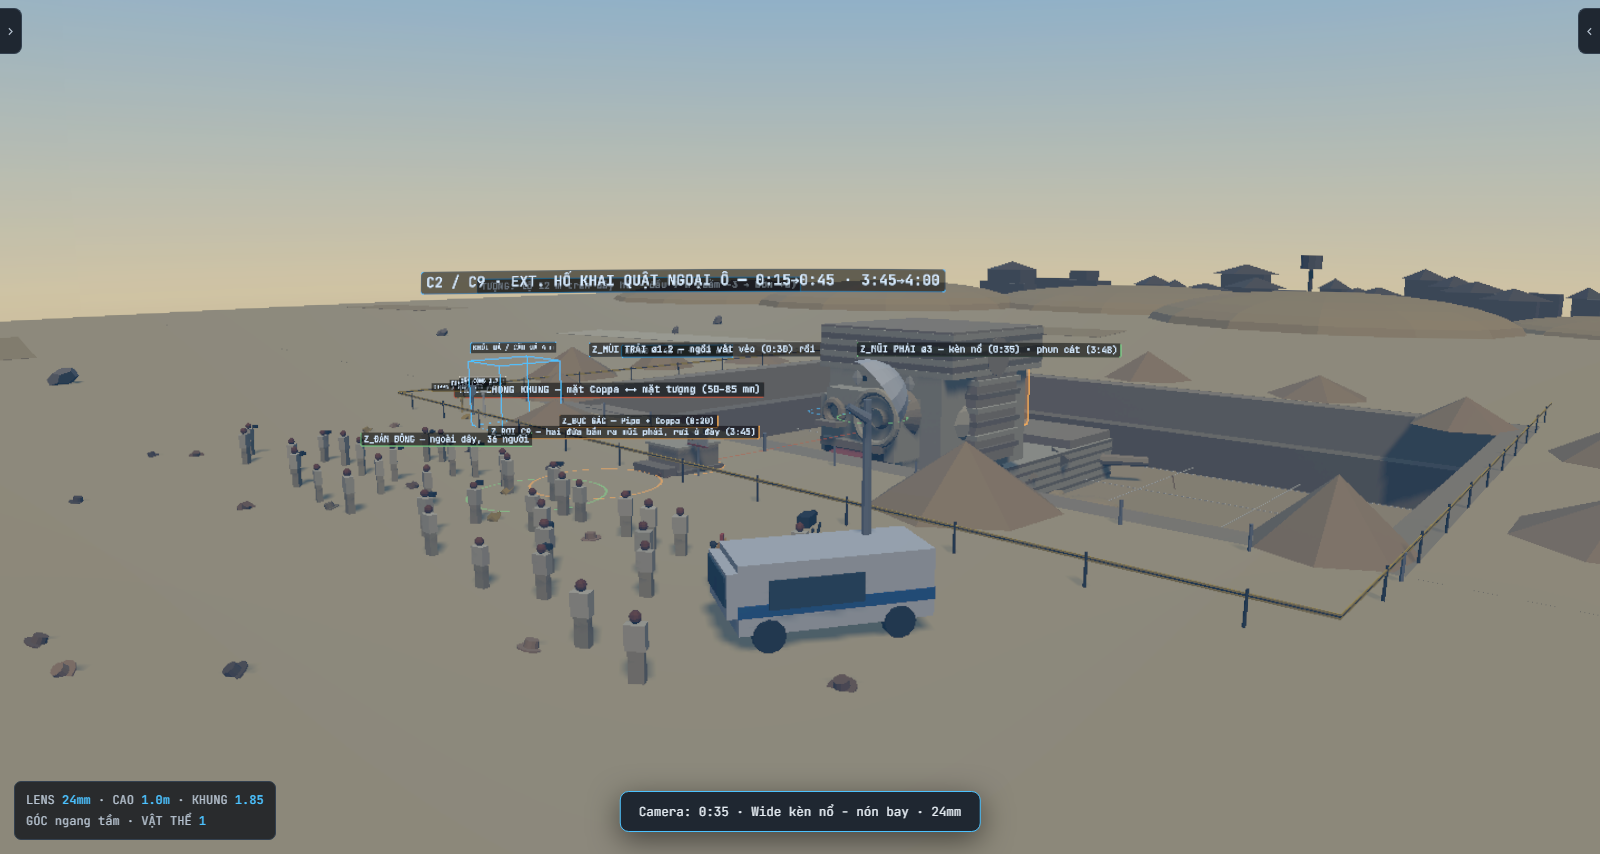
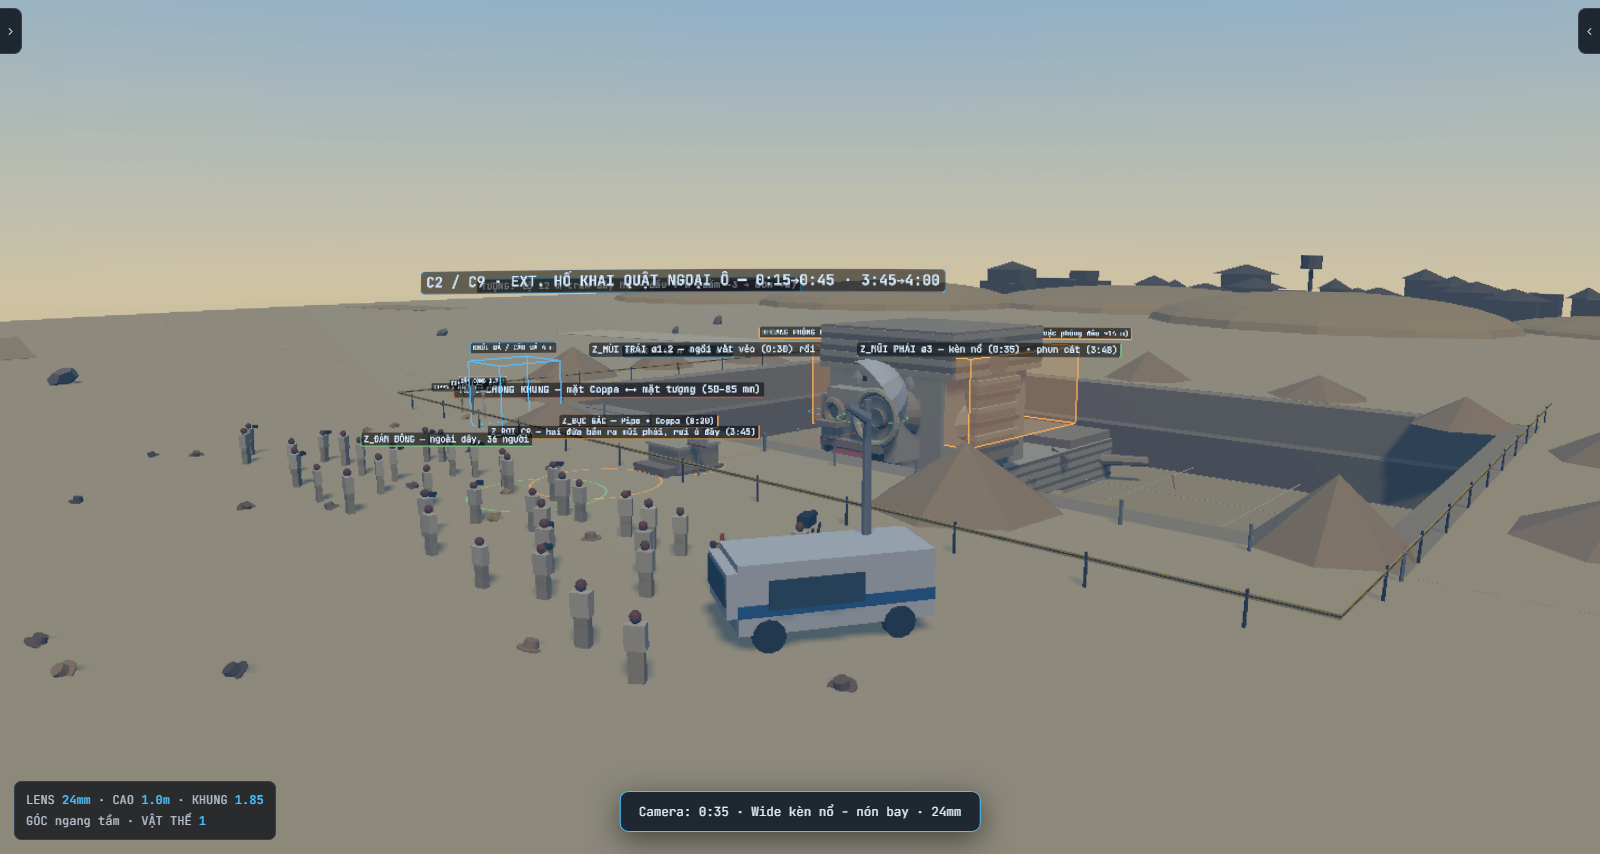
Phong bida: noi rong 12x12x5, tuong tang hinh khi nhin tu ngoai
Nguoi dung van kho dua camera vao phong 8x8x4 du da co lan-xuyen-tuong.
Sua theo hai huong:

- Phong noi len 12 x 12 m, cao 5 m. Ban bida (3.4 x 1.7, mat ban 1.00 m),
  co vang 3 m va vi tri lo kich hoat GIU NGUYEN nen gag khong doi.
- Tuong va tran doi tu hop dac sang MAT DON quay vao trong (giong vo
  khoang may bay): dung trong thay tuong, dung ngoai tuong tang hinh ->
  camera ngoai phong nhin xuyen vao nhu nha bup be, khong can chui qua.
  Lo cua hang va o cua phong khoet bang ShapeGeometry co holes.
- Tran bat san (nhin tu tren xuong van thay trong phong), dam tran la
  dai phang de khong che tam nhin.
- Them bookmark "Tong the - dung NGOAI nhin xuyen tuong"; cac bookmark
  wide noi theo phong moi, cua sap lui ra z=3.
- Khoang danh dau trong dau tuong C2 cap nhat 12x12x5 va ghi ro: lon hon
  dau 10 m -> chap nhan cheat hoat hinh hoac phong dau ~14 m.

Changed region(s): [[0.5625, 0.3653, 0.7188, 0.548], [0.5, 0.4262, 0.5312, 0.4871], [0.4688, 0.3653, 0.5312, 0.3958]]

diff --git a/jenny-pixel-studio.html b/jenny-pixel-studio.html
@@ -3574,12 +3574,15 @@ function buildC2Horn(){
   const g=new THREE.Group();
   const ny=C2_NOSE_Y-C2_HEAD.chin, nz=3.4;
   // khoang phòng bida 8 × 8 × 4 m (set 3 nằm đúng chỗ này)
-  const room=new THREE.Mesh(new THREE.BoxGeometry(8,4,8),
-    new THREE.MeshBasicMaterial({color:EG.warm,transparent:true,opacity:.14,depthWrite:false}));
-  room.position.set(0,ny+.4,-1.6);room.userData.__anno=true;g.add(room);
-  const edge=new THREE.LineSegments(new THREE.EdgesGeometry(new THREE.BoxGeometry(8,4,8)),
+  // phòng bida đã nới lên 12×12×5 — LỚN HƠN đầu tượng 10 m. Khung vẽ đúng cỡ để thấy chênh lệch:
+  // hoặc chấp nhận cheat hoạt hình (trong rộng hơn ngoài), hoặc phóng đầu tượng lên ~14 m.
+  const room=new THREE.Mesh(new THREE.BoxGeometry(12,5,12),
+    new THREE.MeshBasicMaterial({color:EG.warm,transparent:true,opacity:.12,depthWrite:false}));
+  room.position.set(0,ny+.9,-2.2);room.userData.__anno=true;g.add(room);
+  const edge=new THREE.LineSegments(new THREE.EdgesGeometry(new THREE.BoxGeometry(12,5,12)),
     new THREE.LineBasicMaterial({color:EG.warm}));
   edge.position.copy(room.position);edge.userData.__anno=true;g.add(edge);
+  g.add(tag('KHOANG PHÒNG BIDA 12×12×5 — rộng hơn đầu 10 m (cheat hoạt hình hoặc phóng đầu ~14 m)',0,ny+4.2,-2.2,1.2,EG.warm));
   // Hai lỗ mũi ĐỔ THẲNG vào phòng (chỉ đạo: cửa hang chính là hai lỗ mũi).
   // Phòng bida là khoang cộng hưởng: tiếng xì vào mũi trái, vang trong phòng, phụt ra mũi phải.
   const curve=new THREE.CatmullRomCurve3([
@@ -3809,71 +3812,76 @@ const BD={
   gold:'#e6bf45', gold2:'#bf962b', chalk:'#3f7fa8',
   fire:'#ff9a3c', dust:'#cfc6ae', web:'#d8d4c8'
 };
-const BDR={w:8, d:8, h:4};                 // phòng 8 × 8, cao 4
+const BDR={w:12, d:12, h:5};               // phòng 12 × 12, cao 5 (nới rộng theo yêu cầu, bàn/cơ giữ nguyên)
 const BDT={w:3.4, d:1.7, top:1.0};         // bàn bida: 3.4 × 1.7, MẶT BÀN CAO ĐÚNG 1.0 m = chiều cao Pipo
 const BD_POCKET=[-1.7,0.85];               // LỖ KÍCH HOẠT: góc gần camera, trái khung
 const BD_NOSE_Y=1.6;                       // tâm hai cửa hang so với sàn phòng
 
-/* ---- VỎ PHÒNG: sàn + 4 tường + chữ tượng hình ---- */
+/* ---- VỎ PHÒNG: sàn + 4 tường + chữ tượng hình ----
+   Tường và trần là MẶT ĐƠN quay vào trong (như vỏ khoang máy bay): đứng trong
+   thì thấy tường, đứng ngoài thì tường tàng hình → camera ngoài phòng vẫn nhìn
+   xuyên vào, khỏi phải chui qua tường. Sàn vẫn đặc để nhìn từ trên xuống.    */
+function bdWallMat(c){return new THREE.MeshStandardMaterial({color:c,roughness:.85,metalness:.02,flatShading:true,side:THREE.FrontSide});}
 function buildBdShell(){
   const g=new THREE.Group();
   const W=BDR.w/2,D=BDR.d/2,H=BDR.h;
   // sàn đá lát
-  for(let i=-2;i<2;i++)for(let j=-2;j<2;j++){
-    const t=box(BDR.w/4-.06,.3,BDR.d/4-.06,(i+j)%2?BD.floor:BD.wall2);
-    t.position.set(i*2+1,-.15,j*2+1);g.add(t);
+  const nx=Math.round(BDR.w/2),nz=Math.round(BDR.d/2);
+  for(let i=0;i<nx;i++)for(let j=0;j<nz;j++){
+    const t=box(2-.06,.3,2-.06,(i+j)%2?BD.floor:BD.wall2);
+    t.position.set(-W+1+i*2,-.15,-D+1+j*2);g.add(t);
   }
-  // 4 tường (chừa cửa hang ở -Z và cửa phòng ở +X thì khoét bằng cách ghép mảng)
-  const wall=(x,z,w,d)=>{const m=box(w,H,d,BD.wall);m.position.set(x,H/2,z);g.add(m);return m;};
-  wall(0, D+.4, BDR.w+1.6, .8);                       // tường sau (phía camera)
-  wall(-W-.4,0, .8, BDR.d);                           // tường trái (giá gác cơ)
-  // tường phải: chừa ô cửa phòng 2.6 rộng × 3.2 cao ở giữa
-  wall(W+.4,-2.7, .8, 2.6);
-  wall(W+.4, 2.7, .8, 2.6);
-  const lintelR=box(.8,H-3.2,2.6,BD.wall);lintelR.position.set(W+.4,3.2+(H-3.2)/2,0);g.add(lintelR);
-  // tường trước (-Z): chừa hai lỗ tròn -> ghép 5 mảng
-  const fz=-D-.4;
-  wall(-3.1,fz, 1.8, .8);
-  wall( 3.2,fz, 1.6, .8);
-  wall( -.1,fz, 1.0, .8);
-  const bandTop=box(BDR.w+1.6,H-(BD_NOSE_Y+1.6),.8,BD.wall);
-  bandTop.position.set(0,(BD_NOSE_Y+1.6)+(H-(BD_NOSE_Y+1.6))/2,fz);g.add(bandTop);
-  const bandBot=box(BDR.w+1.6,BD_NOSE_Y-1.6,.8,BD.wall);
-  bandBot.position.set(0,(BD_NOSE_Y-1.6)/2,fz);g.add(bandBot);
-  // gờ chân tường + gờ trần
+  // tường sau (+Z) & tường trái (−X): mặt phẳng đơn
+  const back=new THREE.Mesh(new THREE.PlaneGeometry(BDR.w,H),bdWallMat(BD.wall));
+  back.rotation.y=Math.PI;back.position.set(0,H/2,D);back.receiveShadow=true;g.add(back);
+  const left=new THREE.Mesh(new THREE.PlaneGeometry(BDR.d,H),bdWallMat(BD.wall));
+  left.rotation.y=Math.PI/2;left.position.set(-W,H/2,0);left.receiveShadow=true;g.add(left);
+  // tường phải (+X): khoét ô cửa phòng 2.6 × 3.2
+  const shR=new THREE.Shape();shR.moveTo(-D,0);shR.lineTo(D,0);shR.lineTo(D,H);shR.lineTo(-D,H);shR.closePath();
+  const door=new THREE.Path();door.moveTo(-1.3,0);door.lineTo(1.3,0);door.lineTo(1.3,3.2);door.lineTo(-1.3,3.2);door.closePath();
+  shR.holes.push(door);
+  const right=new THREE.Mesh(new THREE.ShapeGeometry(shR),bdWallMat(BD.wall));
+  right.rotation.y=-Math.PI/2;right.position.set(W,0,0);right.receiveShadow=true;g.add(right);
+  // tường trước (−Z): khoét HAI LỖ TRÒN = hai lỗ mũi
+  const shF=new THREE.Shape();shF.moveTo(-W,0);shF.lineTo(W,0);shF.lineTo(W,H);shF.lineTo(-W,H);shF.closePath();
+  const h1=new THREE.Path();h1.absarc(-1.8,BD_NOSE_Y,1.5,0,Math.PI*2,true);
+  const h2=new THREE.Path();h2.absarc( 1.4,BD_NOSE_Y,.9,0,Math.PI*2,true);
+  shF.holes.push(h1,h2);
+  const front=new THREE.Mesh(new THREE.ShapeGeometry(shF,24),bdWallMat(BD.wall));
+  front.position.set(0,0,-D);front.receiveShadow=true;g.add(front);
+  // gờ chân tường (đặc, nhỏ — không che tầm nhìn)
   [[-1,0],[1,0],[0,-1],[0,1]].forEach(([sx,sz])=>{
-    const w=sx?.5:BDR.w, d=sz?.5:BDR.d;
-    const b=box(w,.35,d,BD.wall2);b.position.set(sx*(W-.2),.17,sz*(D-.2));g.add(b);
-    const t=box(w,.3,d,BD.wall2);t.position.set(sx*(W-.2),H-.15,sz*(D-.2));g.add(t);
+    const w=sx?.3:BDR.w, d=sz?.3:BDR.d;
+    const b=box(w,.3,d,BD.wall2);b.position.set(sx*(W-.15),.15,sz*(D-.15));g.add(b);
   });
-  // chữ tượng hình khắc chìm: 3 hàng ô trên mỗi tường
+  // chữ tượng hình: ô mỏng ốp mặt tường, cũng quay vào trong
   const R=rnd(101);
   const glyphRow=(x,z,ry,len)=>{
     for(let r=0;r<3;r++)for(let i=0;i<len;i++){
-      const s=.34;
-      const gl=box(s,s,.07,BD.glyph);
+      const gl=new THREE.Mesh(new THREE.PlaneGeometry(.34,.34),bdWallMat(R()>.55?BD.wall3:BD.glyph));
       const off=(i-(len-1)/2)*.52;
       gl.position.set(x+Math.cos(ry)*off, 1.1+r*.82, z-Math.sin(ry)*off);
       gl.rotation.y=ry;gl.castShadow=false;g.add(gl);
-      if(R()>.55){const d2=box(.12,.12,.08,BD.wall3);d2.position.copy(gl.position);d2.position.y+=.02;d2.rotation.y=ry;d2.castShadow=false;g.add(d2);}
     }
   };
-  glyphRow(0, D-.05, 0, 12);            // tường sau
-  glyphRow(-W+.05, 0, Math.PI/2, 12);   // tường trái
-  glyphRow( W-.05, 0, Math.PI/2, 4);    // tường phải (né ô cửa)
+  glyphRow(0, D-.04, Math.PI, 20);           // tường sau, quay về −Z
+  glyphRow(-W+.04, 0, Math.PI/2, 20);        // tường trái, quay về +X
+  glyphRow( W-.04, -3.9, -Math.PI/2, 6);     // tường phải, hai bên ô cửa
+  glyphRow( W-.04,  3.9, -Math.PI/2, 6);
   g.userData.h=BDR.h;
   return g;
 }
 
-/* ---- TRẦN (tách riêng: tắt đi để đặt camera & lấy sáng cho dễ) ---- */
+/* ---- TRẦN: mặt đơn quay xuống — nhìn từ trên xuống vẫn thấy trong phòng ---- */
 function buildBdCeil(){
   const g=new THREE.Group();
-  const c=box(BDR.w+1.6,.6,BDR.d+1.6,BD.wall2);c.position.y=BDR.h+.3;g.add(c);
-  // dầm đá ngang
-  for(let i=-1;i<=1;i++){
-    const b=box(BDR.w+1.6,.4,.6,BD.wall3);b.position.set(0,BDR.h-.2,i*2.4);g.add(b);
+  const c=new THREE.Mesh(new THREE.PlaneGeometry(BDR.w,BDR.d),bdWallMat(BD.wall2));
+  c.rotation.x=Math.PI/2;c.position.y=BDR.h;g.add(c);
+  for(let i=-2;i<=2;i++){
+    const b=new THREE.Mesh(new THREE.PlaneGeometry(BDR.w,.5),bdWallMat(BD.wall3));
+    b.rotation.x=Math.PI/2;b.position.set(0,BDR.h-.02,i*2.4);g.add(b);
   }
-  g.userData.h=BDR.h+.6;
+  g.userData.h=BDR.h;
   return g;
 }
 
@@ -3996,14 +4004,14 @@ function buildBdRack(){
 /* ---- CỬA SẬP Ở SÀN 2 × 2, mở làm hai cánh (1:03 và 3:44) ---- */
 function buildBdTrap(){
   const g=new THREE.Group();
-  const frame=box(2.4,.12,2.4,BD.wall3);frame.position.set(0,.06,2.6);g.add(frame);
-  const pit=box(2.0,.5,2.0,'#141210');pit.position.set(0,-.25,2.6);g.add(pit);
+  const frame=box(2.4,.12,2.4,BD.wall3);frame.position.set(0,.06,3.0);g.add(frame);
+  const pit=box(2.0,.5,2.0,'#141210');pit.position.set(0,-.25,3.0);g.add(pit);
   // hai cánh đang hé mở
   [-1,1].forEach(s=>{
     const leaf=box(.98,.1,2.0,BD.floor);
-    leaf.position.set(s*.52,.1,2.6);leaf.rotation.z=s*.55;g.add(leaf);
+    leaf.position.set(s*.52,.1,3.0);leaf.rotation.z=s*.55;g.add(leaf);
     const hinge=cyl(.05,.05,2.0,BD.rail2,8);hinge.rotation.x=Math.PI/2;
-    hinge.position.set(s*1.0,.06,2.6);g.add(hinge);
+    hinge.position.set(s*1.0,.06,3.0);g.add(hinge);
   });
   g.userData.h=.6;
   return g;
@@ -4107,7 +4115,8 @@ function buildBdStateB(){
   leaf.scale.set(1,.1,.72);leaf.position.y=1.6;fan.add(leaf);
   g.add(fan);
   // ĐUỐC TƯỜNG
-  [[-3.7,-2.2],[-3.7,2.2],[3.7,-2.6],[0,3.7]].forEach(([x,z])=>{
+  const TW=BDR.w/2-.3,TD=BDR.d/2-.3;
+  [[-TW,-2.6],[-TW,2.6],[TW,-3.2],[0,TD]].forEach(([x,z])=>{
     const t=new THREE.Group();t.position.set(x,2.1,z);
     const br=cyl(.05,.05,.4,BD.rail2,6);br.rotation.z=Math.PI/2.4;t.add(br);
     const cup=cyl(.12,.07,.22,BD.rail2,8);cup.position.set(0,.22,0);t.add(cup);
@@ -4120,9 +4129,10 @@ function buildBdStateB(){
     g.add(t);
   });
   // HAI THỢ ĐỤC đang khắc tường sau
-  g.add(peopleField([{x:-1.9,z:3.1,ry:Math.PI,lean:.18,s:1.0},
-                     {x:.9,z:3.1,ry:Math.PI,lean:.22,s:1.03}],'stand'));
-  [[-1.9,3.1],[.9,3.1]].forEach(([x,z])=>{
+  const CZ=BDR.d/2-.9;
+  g.add(peopleField([{x:-1.9,z:CZ,ry:Math.PI,lean:.18,s:1.0},
+                     {x:.9,z:CZ,ry:Math.PI,lean:.22,s:1.03}],'stand'));
+  [[-1.9,CZ],[.9,CZ]].forEach(([x,z])=>{
     const ch=cyl(.03,.03,.34,BD.rail2,6);ch.position.set(x+.3,1.5,z-.35);ch.rotation.x=1.1;g.add(ch);
     const ham=box(.12,.12,.22,EG.wood);ham.position.set(x-.32,1.35,z-.3);g.add(ham);
   });
@@ -4190,11 +4200,11 @@ function buildBdZones(){
   g.add(tag('CỬA HANG 1 — lỗ mũi TRÁI của tượng (nhìn từ trong hóa PHẢI khung) · chui vào 0:43',1.4,3.1,fz+1.2,1.45));
   z(1.5,-1.8,0,fz+3.2,'#7fd88f');
   g.add(tag('CỬA HANG 2 — lỗ mũi PHẢI của tượng (nhìn từ trong hóa TRÁI khung) · bắn ra 3:48',-1.8,3.6,fz+1.2,1.45,'#7fd88f'));
-  z(1.4,0,0,2.6,EG.warm);
-  g.add(tag('Z_CỬA SẬP 2×2 — sàn mở, cả hai rớt xuống',0,1.5,3.5,1.2,EG.warm));
+  z(1.4,0,0,3.0,EG.warm);
+  g.add(tag('Z_CỬA SẬP 2×2 — sàn mở, cả hai rớt xuống',0,1.5,3.9,1.2,EG.warm));
   g.add(tag('MẶT BÀN CAO ĐÚNG 1.0 m = CHIỀU CAO PIPO → C8 Pipo phải trèo lên thành bàn',0,2.35,-1.6,1.55,EG.red));
-  g.add(tag('PHÒNG ĐÁ 8 × 8 m · CAO 4 m',-3.4,3.7,3.4,1.3));
-  g.add(tag('C2b / C8 · INT. PHÒNG BIDA TRONG ĐẦU NHÂN SƯ — 0:45→1:05 · 3:15→3:45',0,4.5,3.9,1.9,EG.mark));
+  g.add(tag('PHÒNG ĐÁ 12 × 12 m · CAO 5 m — tường tàng hình khi nhìn từ ngoài',-4.4,4.6,4.6,1.3));
+  g.add(tag('C2b / C8 · INT. PHÒNG BIDA TRONG ĐẦU NHÂN SƯ — 0:45→1:05 · 3:15→3:45',0,5.5,5.4,1.9,EG.mark));
   g.userData.h=BDR.h;
   return g;
 }
@@ -4330,7 +4340,7 @@ const SET_DEFS={
   },
   setBida:{
     label:'C2b + C8 · Phòng bida trong đầu nhân sư',
-    note:'Phòng đá 8×8×4 m, MỘT model hai state. Hai cửa hang chính là hai lỗ mũi tượng — nhìn từ trong ra thì trái/phải ĐẢO so với nhìn mặt tượng từ ngoài. Bật/tắt STATE A (C2b) và STATE B (C8) trong danh sách bộ phận.',
+    note:'Phòng đá 12×12×5 m (đã nới rộng), tường tàng hình khi nhìn từ ngoài. MỘT model hai state. Hai cửa hang chính là hai lỗ mũi tượng — nhìn từ trong ra thì trái/phải ĐẢO so với nhìn mặt tượng từ ngoài. Bật/tắt STATE A (C2b) và STATE B (C8) trong danh sách bộ phận.',
     small:true,
     parts:[
       {k:'bd_shell',  p:[0,0,0]},
@@ -4344,21 +4354,22 @@ const SET_DEFS={
       {k:'bd_glow',   p:[0,0,0], hidden:true},
       {k:'bd_traj',   p:[0,0,0]},
       {k:'bd_zones',  p:[0,0,0]},
-      {k:'bd_ceil',   p:[0,0,0], hidden:true},
-      {k:'eg_scaleref',p:[-2.6,0,3.2]}
+      {k:'bd_ceil',   p:[0,0,0]},
+      {k:'eg_scaleref',p:[-4.2,0,4.6]}
     ],
     cams:[
-      {t:'—',   n:'Tổng thể phòng (từ cửa sập nhìn vào)',p:[0,2.6,3.4],  tg:[0,1.1,-.6], f:24},
+      {t:'—',   n:'Tổng thể — đứng NGOÀI nhìn xuyên tường',p:[9,7.5,13],   tg:[0,1,0],     f:28},
+      {t:'—',   n:'Tổng thể — trong phòng nhìn ra 2 cửa',p:[0,2.8,4.8],  tg:[0,1.1,-1],  f:24},
       {t:'0:47',n:'Zippo bật — reveal bàn',           p:[2.7,1.8,3.3],  tg:[.1,1.02,.1], f:24},
       {t:'0:55',n:'Medium Coppa nhắm cơ',             p:[2.5,1.35,1.5], tg:[1.0,1.08,.3],f:50},
       {t:'1:00',n:'Insert bi vào lỗ kích hoạt',       p:[-1.0,1.35,1.8],tg:[-1.7,1.02,.85],f:50},
-      {t:'1:03',n:'Sàn mở — top-down',                p:[0,3.7,2.62],   tg:[0,0,2.6],   f:35},
-      {t:'3:15',n:'C8 wide phòng mới + ngai',         p:[-1.6,2.4,3.3], tg:[2.2,1.1,.4], f:28},
+      {t:'1:03',n:'Sàn mở — top-down',                p:[0,4.5,3.02],   tg:[0,0,3.0],   f:35},
+      {t:'3:15',n:'C8 wide phòng mới + ngai',         p:[-2.6,2.6,4.8], tg:[2.2,1.1,.4], f:28},
       {t:'3:25',n:'C8 Pipo trên thành bàn với cơ',    p:[.5,1.6,2.6],   tg:[1.4,1.22,.85],f:50},
       {t:'3:32',n:'C8 reverse — Coppa dừng nho',      p:[1.2,1.5,.5],   tg:[3.2,1.15,.6],f:50},
-      {t:'3:38',n:'C8 cầu đá phá cửa',                p:[-2.6,2.2,2.2], tg:[3.6,1.8,.2], f:28},
+      {t:'3:38',n:'C8 cầu đá phá cửa',                p:[-3.4,2.4,2.8], tg:[5.6,1.8,.2], f:28},
       {t:'3:41',n:'C8 Coppa trượt trên nỉ',           p:[1.0,1.5,2.4],  tg:[.2,1.1,.3],  f:35},
-      {t:'3:44',n:'C8 sàn mở',                        p:[.8,3.2,3.6],   tg:[0,.3,2.6],   f:28}
+      {t:'3:44',n:'C8 sàn mở',                        p:[.8,3.6,4.2],   tg:[0,.3,3.0],   f:28}
     ]
   },
   setC2:{
